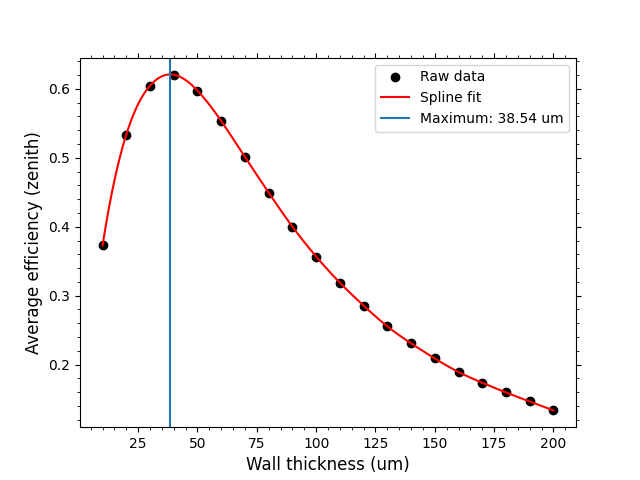
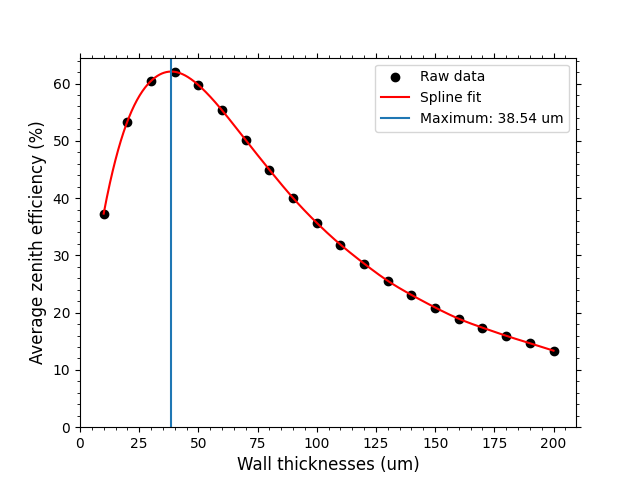
testing for b33...

diff --git a/src/DetectorConstruction.cc b/src/DetectorConstruction.cc
@@ -149,9 +149,11 @@ namespace lmcp
     auto isotopes = true;
     G4Element* eH  = nistManager -> FindOrBuildElement( "H" , isotopes ); // 1
     // G4Element* eBe = nistManager -> FindOrBuildElement( "Be", isotopes ); // 4
+    G4Element* eB  = nistManager -> FindOrBuildElement( "B" , isotopes );  // 5
     G4Element* eC  = nistManager -> FindOrBuildElement( "C" , isotopes ); // 6
     G4Element* eO  = nistManager -> FindOrBuildElement( "O" , isotopes ); // 8
     // G4Element* eF  = nistManager -> FindOrBuildElement( "F" , isotopes ); // 9
+    G4Element* eNa = nistManager -> FindOrBuildElement( "Na", isotopes ); // 11
     G4Element* eMg = nistManager -> FindOrBuildElement( "Mg", isotopes ); // 12
     G4Element* eAl = nistManager -> FindOrBuildElement( "Al", isotopes ); // 13
     G4Element* eSi = nistManager -> FindOrBuildElement( "Si", isotopes ); // 14
@@ -180,6 +182,17 @@ namespace lmcp
 
     // Pb-Glass
     nistManager -> FindOrBuildMaterial("G4_GLASS_LEAD");
+
+    // Schott B33 glass
+    G4Material* eSiO2  = nistManager -> FindOrBuildMaterial( "G4_SILICON_DIOXIDE" , isotopes );
+    G4Material* eB2O3  = nistManager -> FindOrBuildMaterial( "G4_BORON_OXIDE" , isotopes );
+    G4Material* eNa2O  = nistManager -> FindOrBuildMaterial( "G4_SODIUM_MONOXIDE" , isotopes );
+    G4Material* eAl2O3 = nistManager -> FindOrBuildMaterial( "G4_ALUMINUM_OXIDE" , isotopes );
+    auto mB33 = new G4Material( "B33", 2.23*g/cm3, 4 );
+      mB33->AddMaterial( eSiO2, 81*perCent);
+      mB33->AddMaterial( eB2O3, 13*perCent);
+      mB33->AddMaterial( eNa2O,  4*perCent);
+      mB33->AddMaterial( eAl2O3, 2*perCent);
 
     // Peek chemical formula (C19H12O3)
     //  C 114/150 = 76
@@ -249,7 +262,8 @@ namespace lmcp
     // auto mAl6061 = G4Material::GetMaterial( "Aluminum6061" );
     // auto mPCB = G4Material::GetMaterial( "PCB" );
 
-    auto mLMCP = G4Material::GetMaterial( "G4_GLASS_LEAD" );
+    // auto mLMCP = G4Material::GetMaterial( "G4_GLASS_LEAD" );
+    auto mLMCP = G4Material::GetMaterial( "B33" );
     //  auto mLMCP = G4Material::GetMaterial( "ECOMASS" );
 
     //======================================================

diff --git a/data/plot_multi_macro.py b/data/plot_multi_macro.py
@@ -3,7 +3,7 @@ from matplotlib import pyplot as plt
 from scipy.integrate import trapezoid
 from scipy.interpolate import splrep, BSpline, CubicSpline
 
-table_path = r'data/pore_width_optimization/g4_glass_lead_varpore.npy'
+table_path = r'data/optimization_pore_width/g4_glass_lead_varpore.npy'
 # table_path = r'data/wall_thickness_optimization/eff_v_angle_per_wall_g4glasslead.npy'
 phi_ind = 0
 theta_spacing = 5   # deg
@@ -39,6 +39,9 @@ zenith_angles = np.linspace(0,90,int(90/theta_spacing+1), dtype=int)
 i = 0
 while i < table.shape[0]:
     effs = table[i,:]
+    # fig, ax = plt.subplots()
+    # ax.scatter(zenith_angles, effs)
+    # plt.show()
     avg_eff = (1/90)*trapezoid(effs, zenith_angles)
     integrated_effs.append(avg_eff)
     i += 1
@@ -52,11 +55,13 @@ dcubic_spline = CubicSpline(spline_domain, ddata_bspline(spline_domain))
 extrema = dcubic_spline.solve(0, extrapolate=False)[0]
 
 fig, ax = plt.subplots()
-ax.scatter(worked_data[:,0], worked_data[:,1], color='black', label='Raw data')
-ax.plot(spline_domain, data_bspline(spline_domain), color='red', label='Spline fit')
+ax.scatter(worked_data[:,0], 100*worked_data[:,1], color='black', label='Raw data')
+ax.plot(spline_domain, 100*data_bspline(spline_domain), color='red', label='Spline fit')
+ax.set_ylim(bottom=0, top=105*worked_data[:,1].max())
+ax.set_xlim(left=0)
 ax.axvline(extrema, label='Maximum: {:.2f} um'.format(extrema))
 ax.set_xlabel(label, fontdict=dict(size=12))
-ax.set_ylabel('Average efficiency (zenith)', fontdict=dict(size=12))
+ax.set_ylabel('Average zenith efficiency (%)', fontdict=dict(size=12))
 ax.legend()
 ax.xaxis.set_ticks_position('both')
 ax.yaxis.set_ticks_position('both')

diff --git a/macros/st_var_lmcp_var_source_bash_macro_maker.py b/macros/st_var_lmcp_var_source_bash_macro_maker.py
@@ -10,10 +10,11 @@ import shutil
 root_output_dir = r'../raw_data/latest_run'
 max_threads = 62
 num_events = 500000
-lmcp_dimensions = np.array([8, 8, 2.54])              # cm
-pore_widths = np.linspace(5, 80, 16, dtype=int)             # um
-# wall_thicknesses = np.linspace(10, 200, 20, dtype=int)      # um
-wall_thicknesses = np.array([50])                             # um
+lmcp_dimensions = np.array([2.54, 2.54, 2.54])              # cm
+# pore_widths = np.linspace(5, 80, 16, dtype=int)             # um
+pore_widths = np.array([150])
+wall_thicknesses = np.linspace(10, 300, 30, dtype=int)      # um
+# wall_thicknesses = np.array([50])                             # um
 
 source_distance_from_lmcp_center = 22       # mm
 theta_increment = 5     # degrees (factor of 90)
